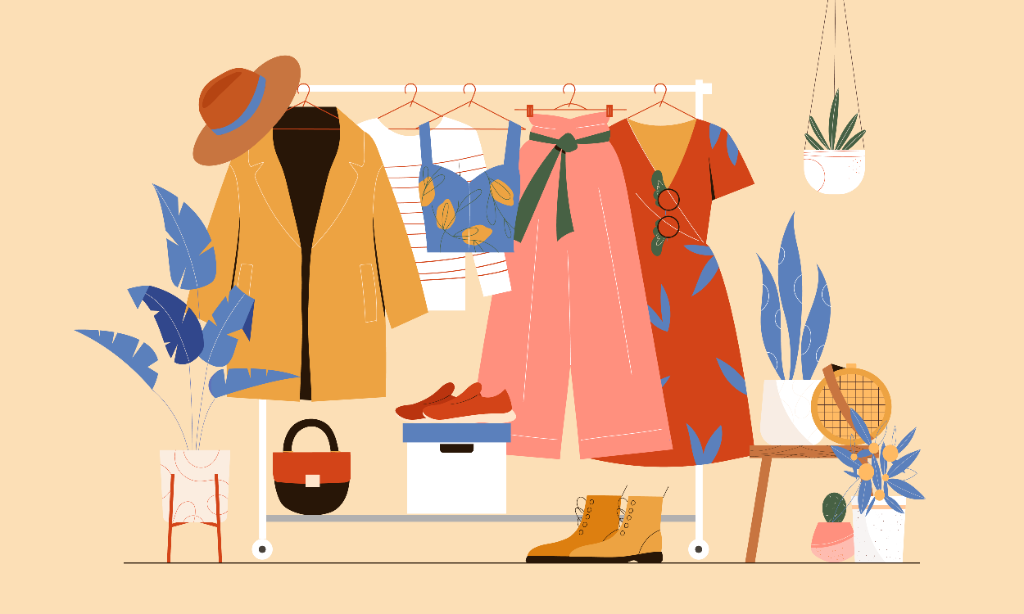
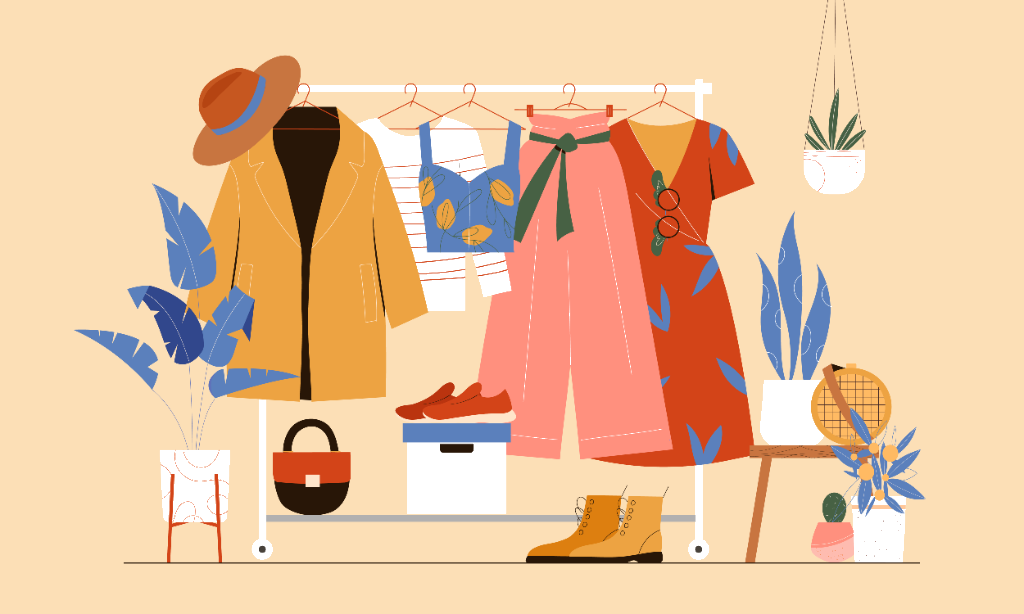
conseils.html: moods 3 cards (Sans tracas / Osez-vous montrer détouré / Slow fashion)
- Card 'Cool, détendu' (hero-street-style.jpeg) supprimée — image répétée ailleurs
- Illustration 'Osez-vous montrer' détourée : fond crème rendu transparent (RGBA)
- Card illustration : fond transparent, gradient sombre désactivé, label en noir
- Grille passe de 4 à 3 colonnes (1 colonne sur mobile)
- Aucune autre page touchée

Changed region(s): [[0.1562, 0.7117, 0.25, 0.8664], [0.7188, 0.6189, 0.8125, 0.7427]]

diff --git a/conseils.html b/conseils.html
@@ -41,16 +41,18 @@
     .advice-collage .zoom-hover:hover img { transform: scale(1.06); }
     .mood-grid {
       display: grid;
-      grid-template-columns: repeat(4, 1fr);
+      grid-template-columns: repeat(3, 1fr);
       gap: 1rem;
       margin-top: 3rem;
     }
     .mood-card { position: relative; border-radius: var(--radius-md); overflow: hidden; aspect-ratio: 3/4; }
     .mood-card img { width: 100%; height: 100%; object-fit: cover; transition: transform 1.2s cubic-bezier(.2,.6,.2,1); }
     .mood-card:hover img { transform: scale(1.06); }
-    /* Illustration horizontale (dressing) : on l'affiche en entier sur fond crème, sans crop */
-    .mood-card--illus { background: #f4ead7; }
-    .mood-card--illus img { object-fit: contain; padding: 1.25rem; }
+    /* Illustration détourée : fond transparent intégré au flux de la page, pas de crop */
+    .mood-card--illus { background: transparent; box-shadow: none; }
+    .mood-card--illus img { object-fit: contain; padding: 1rem; }
+    .mood-card--illus::after { display: none; } /* pas de gradient sombre sur l'illu */
+    .mood-card--illus .mood-label { color: var(--ink, #0A0A0A); }
     .mood-card--illus:hover img { transform: scale(1.04); }
     .mood-card::after {
       content: ""; position: absolute; inset: 0;
@@ -63,7 +65,7 @@
       font-size: 1.15rem;
     }
     @media (max-width: 760px) {
-      .mood-grid { grid-template-columns: repeat(2, 1fr); }
+      .mood-grid { grid-template-columns: 1fr; }
       .advice-collage,
       .advice-collage--duo { grid-template-columns: 1fr; }
       .advice-collage figure:first-child { grid-row: auto; }
@@ -119,10 +121,6 @@
           <div class="mood-card">
             <img src="assets/moods/sans-tracas.jpeg" alt="">
             <span class="mood-label">Sans tracas</span>
-          </div>
-          <div class="mood-card">
-            <img src="assets/hero-street-style.jpeg" alt="">
-            <span class="mood-label">Cool, détendu</span>
           </div>
           <div class="mood-card mood-card--illus">
             <img src="assets/dressing-illustration-osez.png" alt="">
